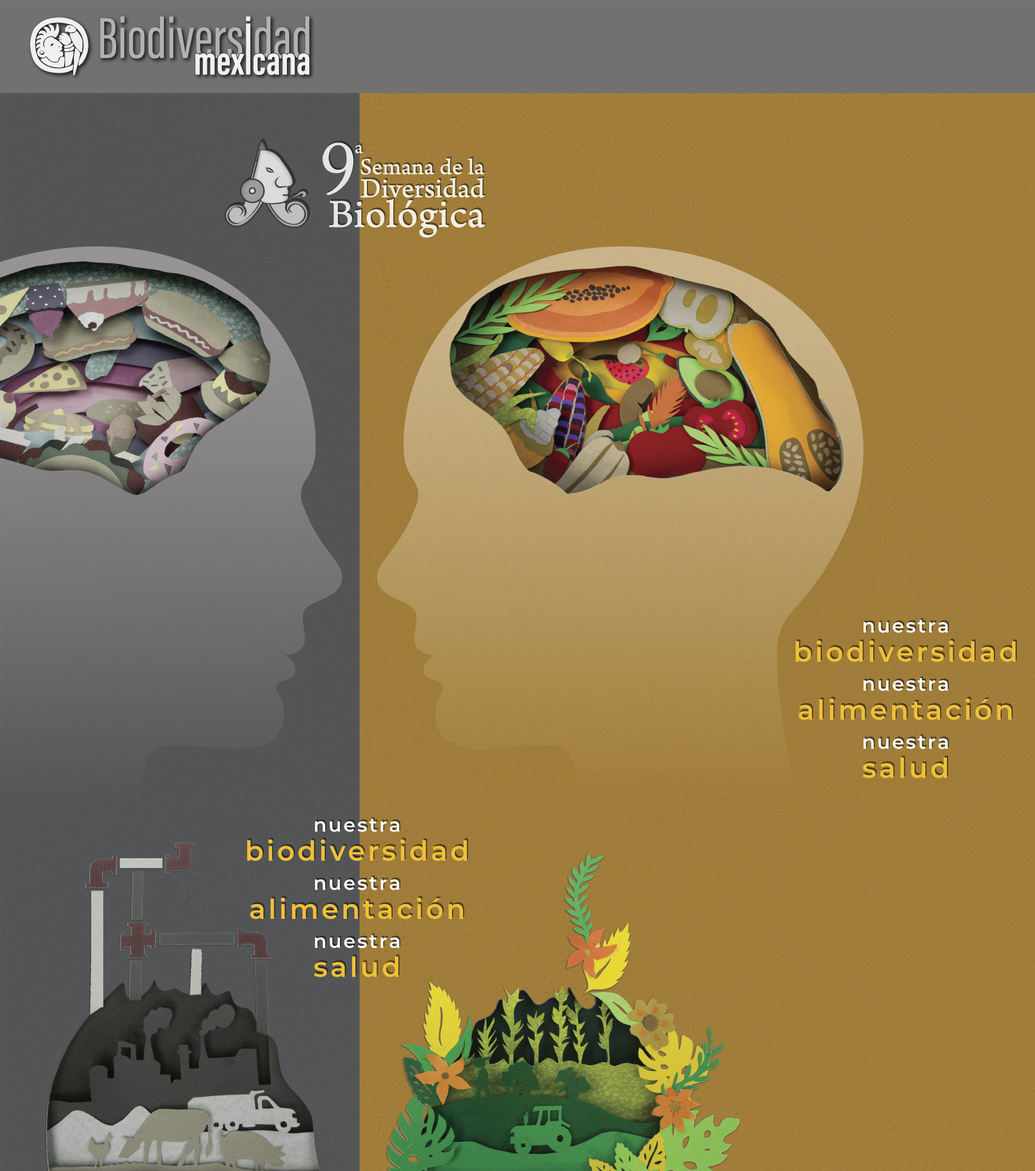
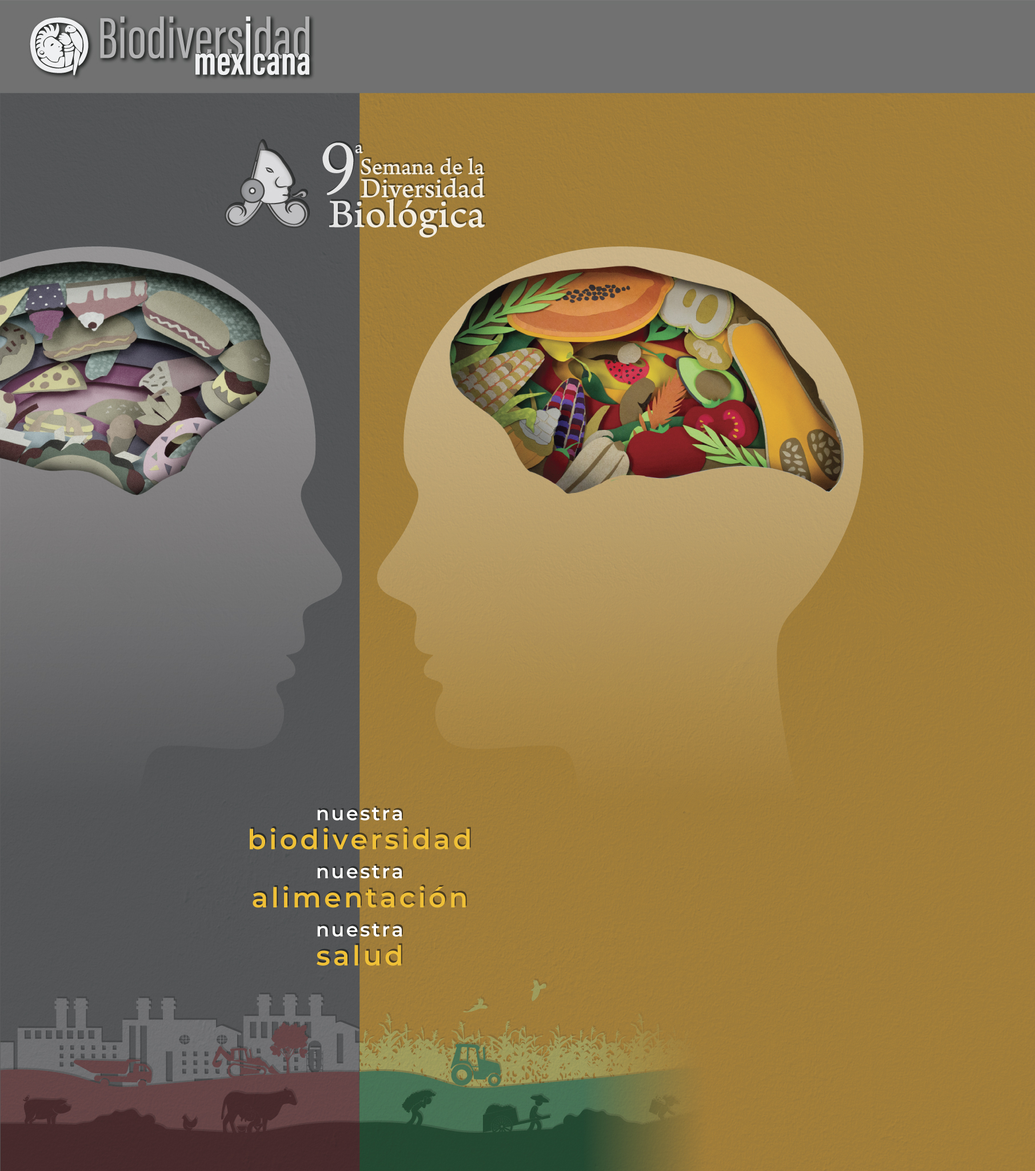
Cambio en la tipografia e imagen

Changed region(s): [[0.0, 0.6875, 0.7112, 1.0], [0.7731, 0.5312, 0.9895, 0.6875]]

diff --git a/css/style.css b/css/style.css
@@ -1,5 +1,6 @@
 @import url(http://www.biodiversidad.gob.mx/Difusion/SDB/2015/css/font-awesome.min.css);
-@import url("https://fonts.googleapis.com/css?family=Oswald");
+/*@import url("https://fonts.googleapis.com/css?family=Oswald");*/
+@import url("http://fonts.googleapis.com/css?family=Source+Sans+Pro:400,400italic");
 
 /*
 	Strata by HTML5 UP
@@ -14,9 +15,9 @@
 
 /* Basic */
 
-	body {
-		<!--background: rgba(224, 224, 224, 0.5);-->
-		background: url("../imagenes/aplicacion/SDB_2015/back_textura-01.png");
+body {
+		background: rgba(224, 224, 224, 0.1);
+		/*background: url("../imagenes/aplicacion/SDB_2015/back_textura-01.png");*/
 	}
 
 		body.is-loading *, body.is-loading *:before, body.is-loading *:after {
@@ -34,7 +35,7 @@
 
 	body, input, select, textarea {
 	color: #333;
-	font-family: Gotham, "Helvetica Neue", Helvetica, Arial, sans-serif;
+	font-family: "Lucida Grande", "Lucida Sans Unicode", "Lucida Sans", "DejaVu Sans", Verdana, sans-serif;
 	font-size: 12pt;
 	font-weight: 400;
 	line-height: 1.4em;
@@ -42,22 +43,23 @@
 
 
 
-	a {
-		-moz-transition: color 0.2s ease-in-out, border-color 0.2s ease-in-out;
-		-webkit-transition: color 0.2s ease-in-out, border-color 0.2s ease-in-out;
-		-o-transition: color 0.2s ease-in-out, border-color 0.2s ease-in-out;
-		-ms-transition: color 0.2s ease-in-out, border-color 0.2s ease-in-out;
-		transition: color 0.2s ease-in-out, border-color 0.2s ease-in-out;
-		border-bottom: dotted 1px;
-		color: var(--subColor) !important;
-		text-decoration: none;
-	}
+a {
+	-moz-transition: color 0.2s ease-in-out, border-color 0.2s ease-in-out;
+	-webkit-transition: color 0.2s ease-in-out, border-color 0.2s ease-in-out;
+	-o-transition: color 0.2s ease-in-out, border-color 0.2s ease-in-out;
+	-ms-transition: color 0.2s ease-in-out, border-color 0.2s ease-in-out;
+	transition: color 0.2s ease-in-out, border-color 0.2s ease-in-out;
+	border-bottom: dotted 1px;
+	color: var(--subColor) !important;
+	text-decoration: none;
+}
 
-		a:hover {
-			border-bottom-color: transparent;
-			color: #3E2819 !important;
-			text-decoration: none;
-		}
+a:hover {
+	border-bottom-color: transparent;
+	color: #3E2819 !important;
+	text-decoration: none;
+}
+
 
 #aagro a {
 	color: #004c31 !important;
@@ -257,7 +259,7 @@
 	}
 	
 	.slogan {
-	font-family: Gotham, "Helvetica Neue", Helvetica, Arial, sans-serif !important;
+	font-family: "Lucida Grande", "Lucida Sans Unicode", "Lucida Sans", "DejaVu Sans", Verdana, sans-serif !important;
 	font-size: 1em;
 	line-height: 1.5em;
 	color: #7D7B7B;
